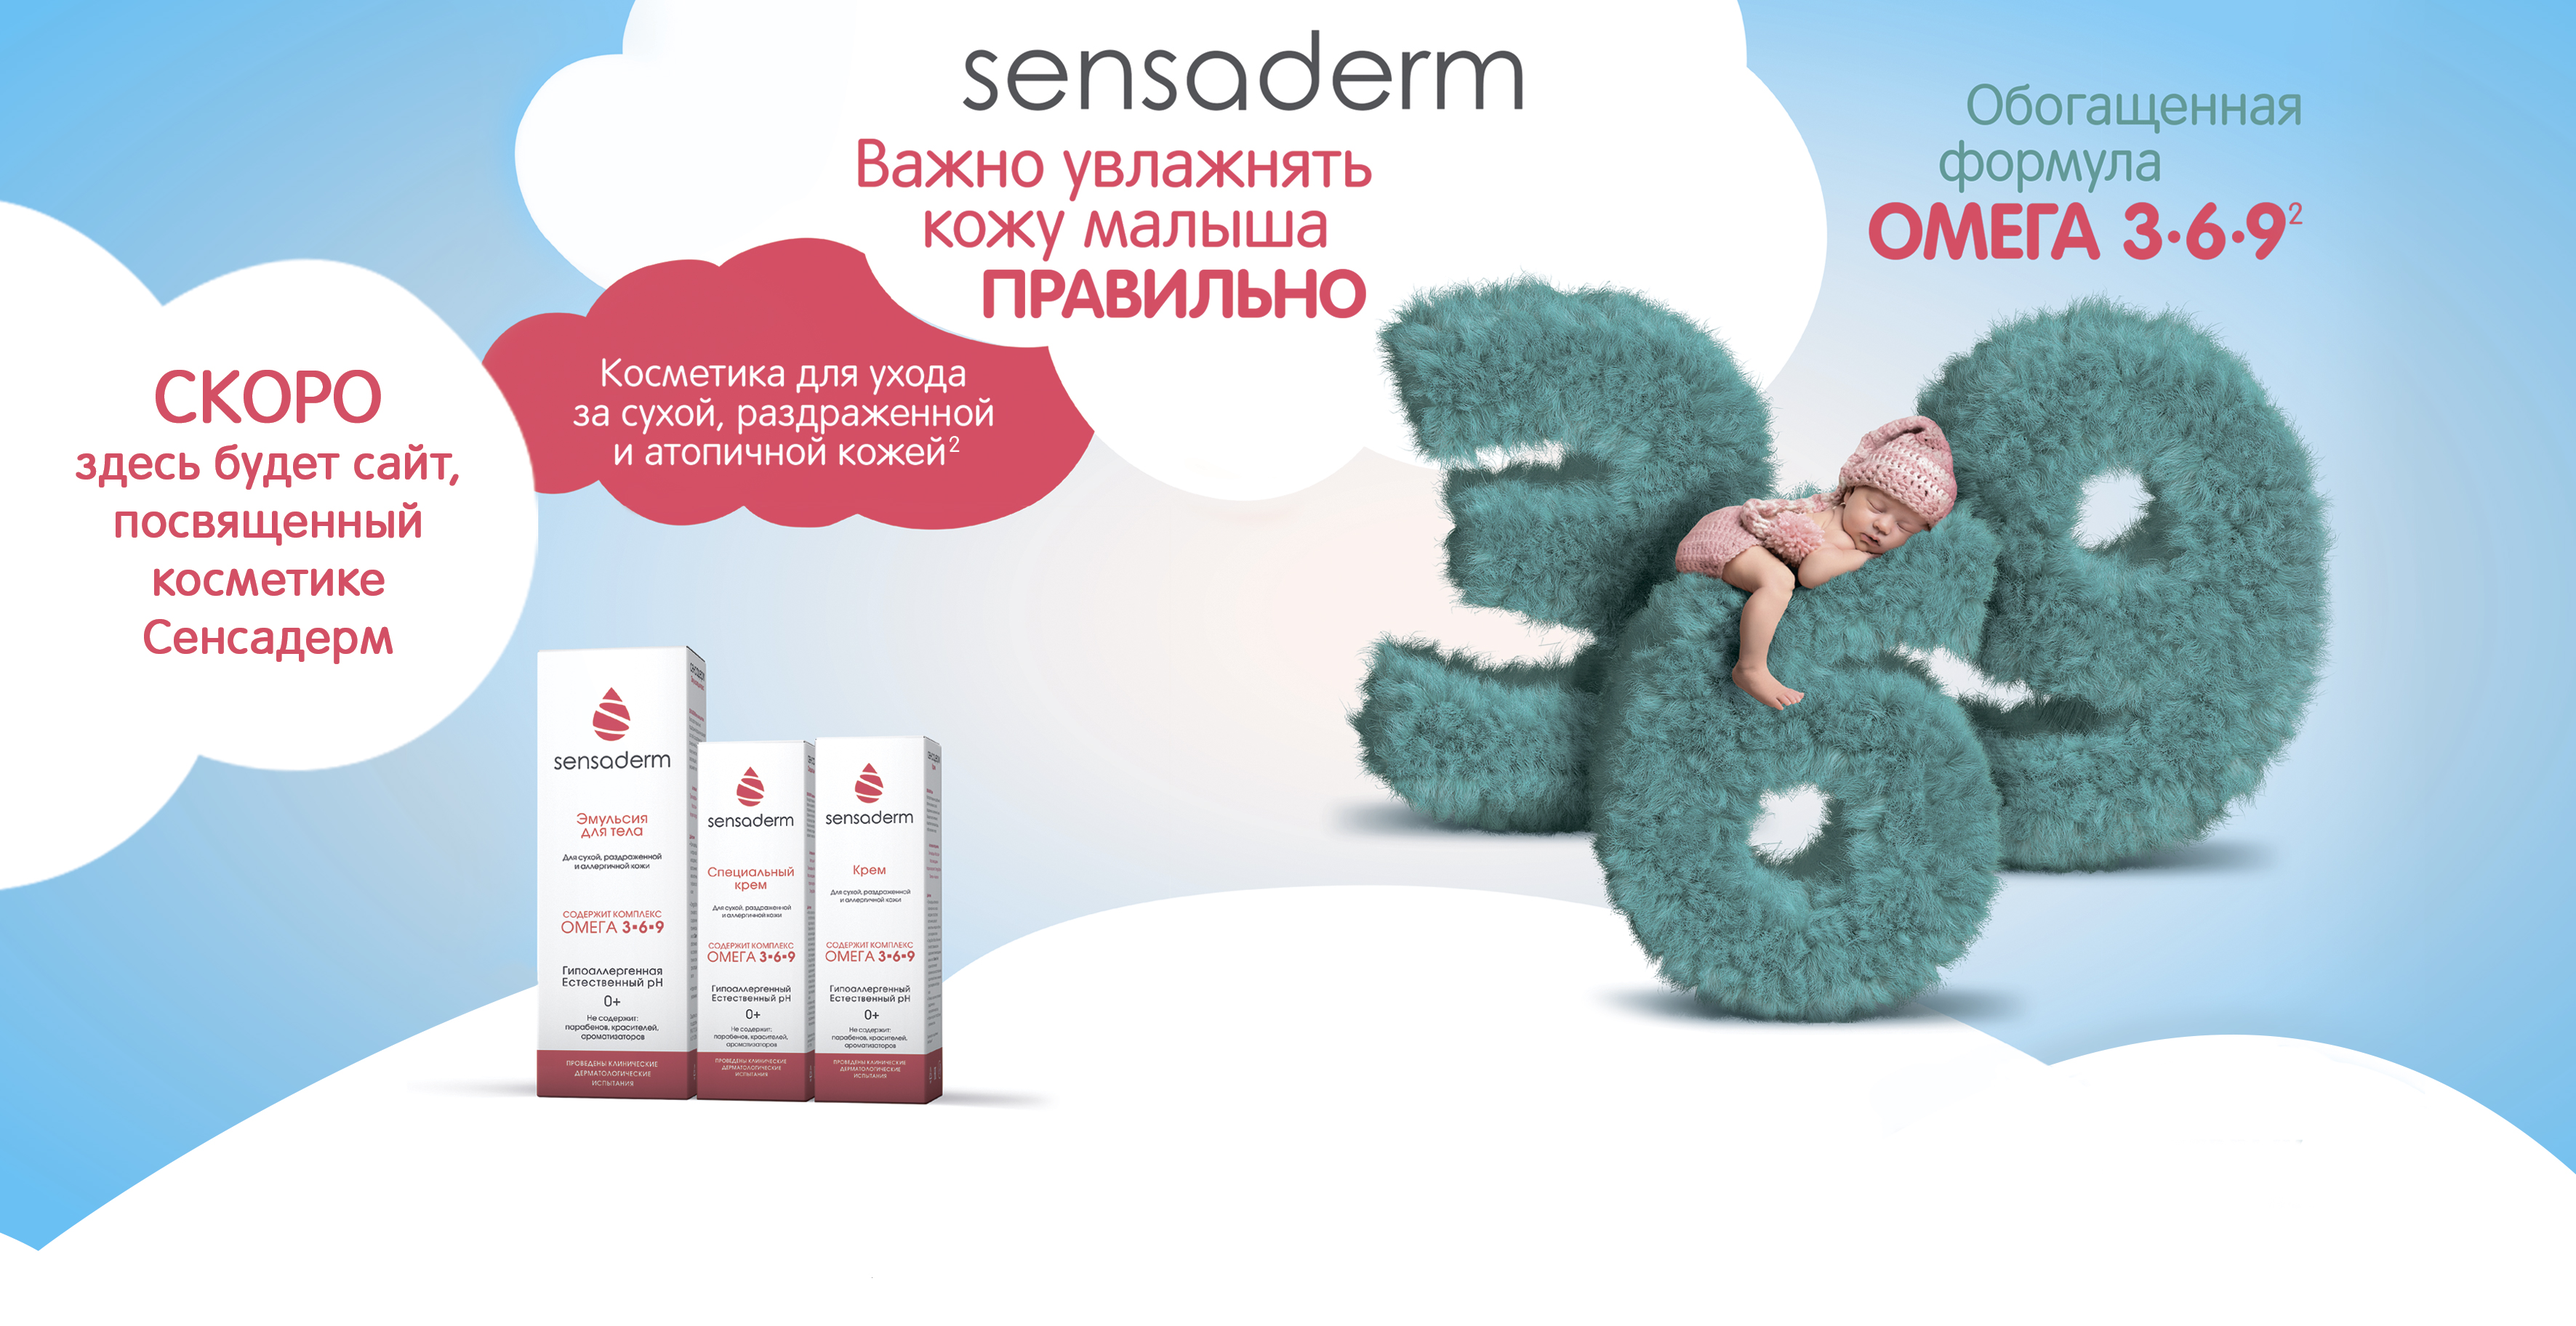
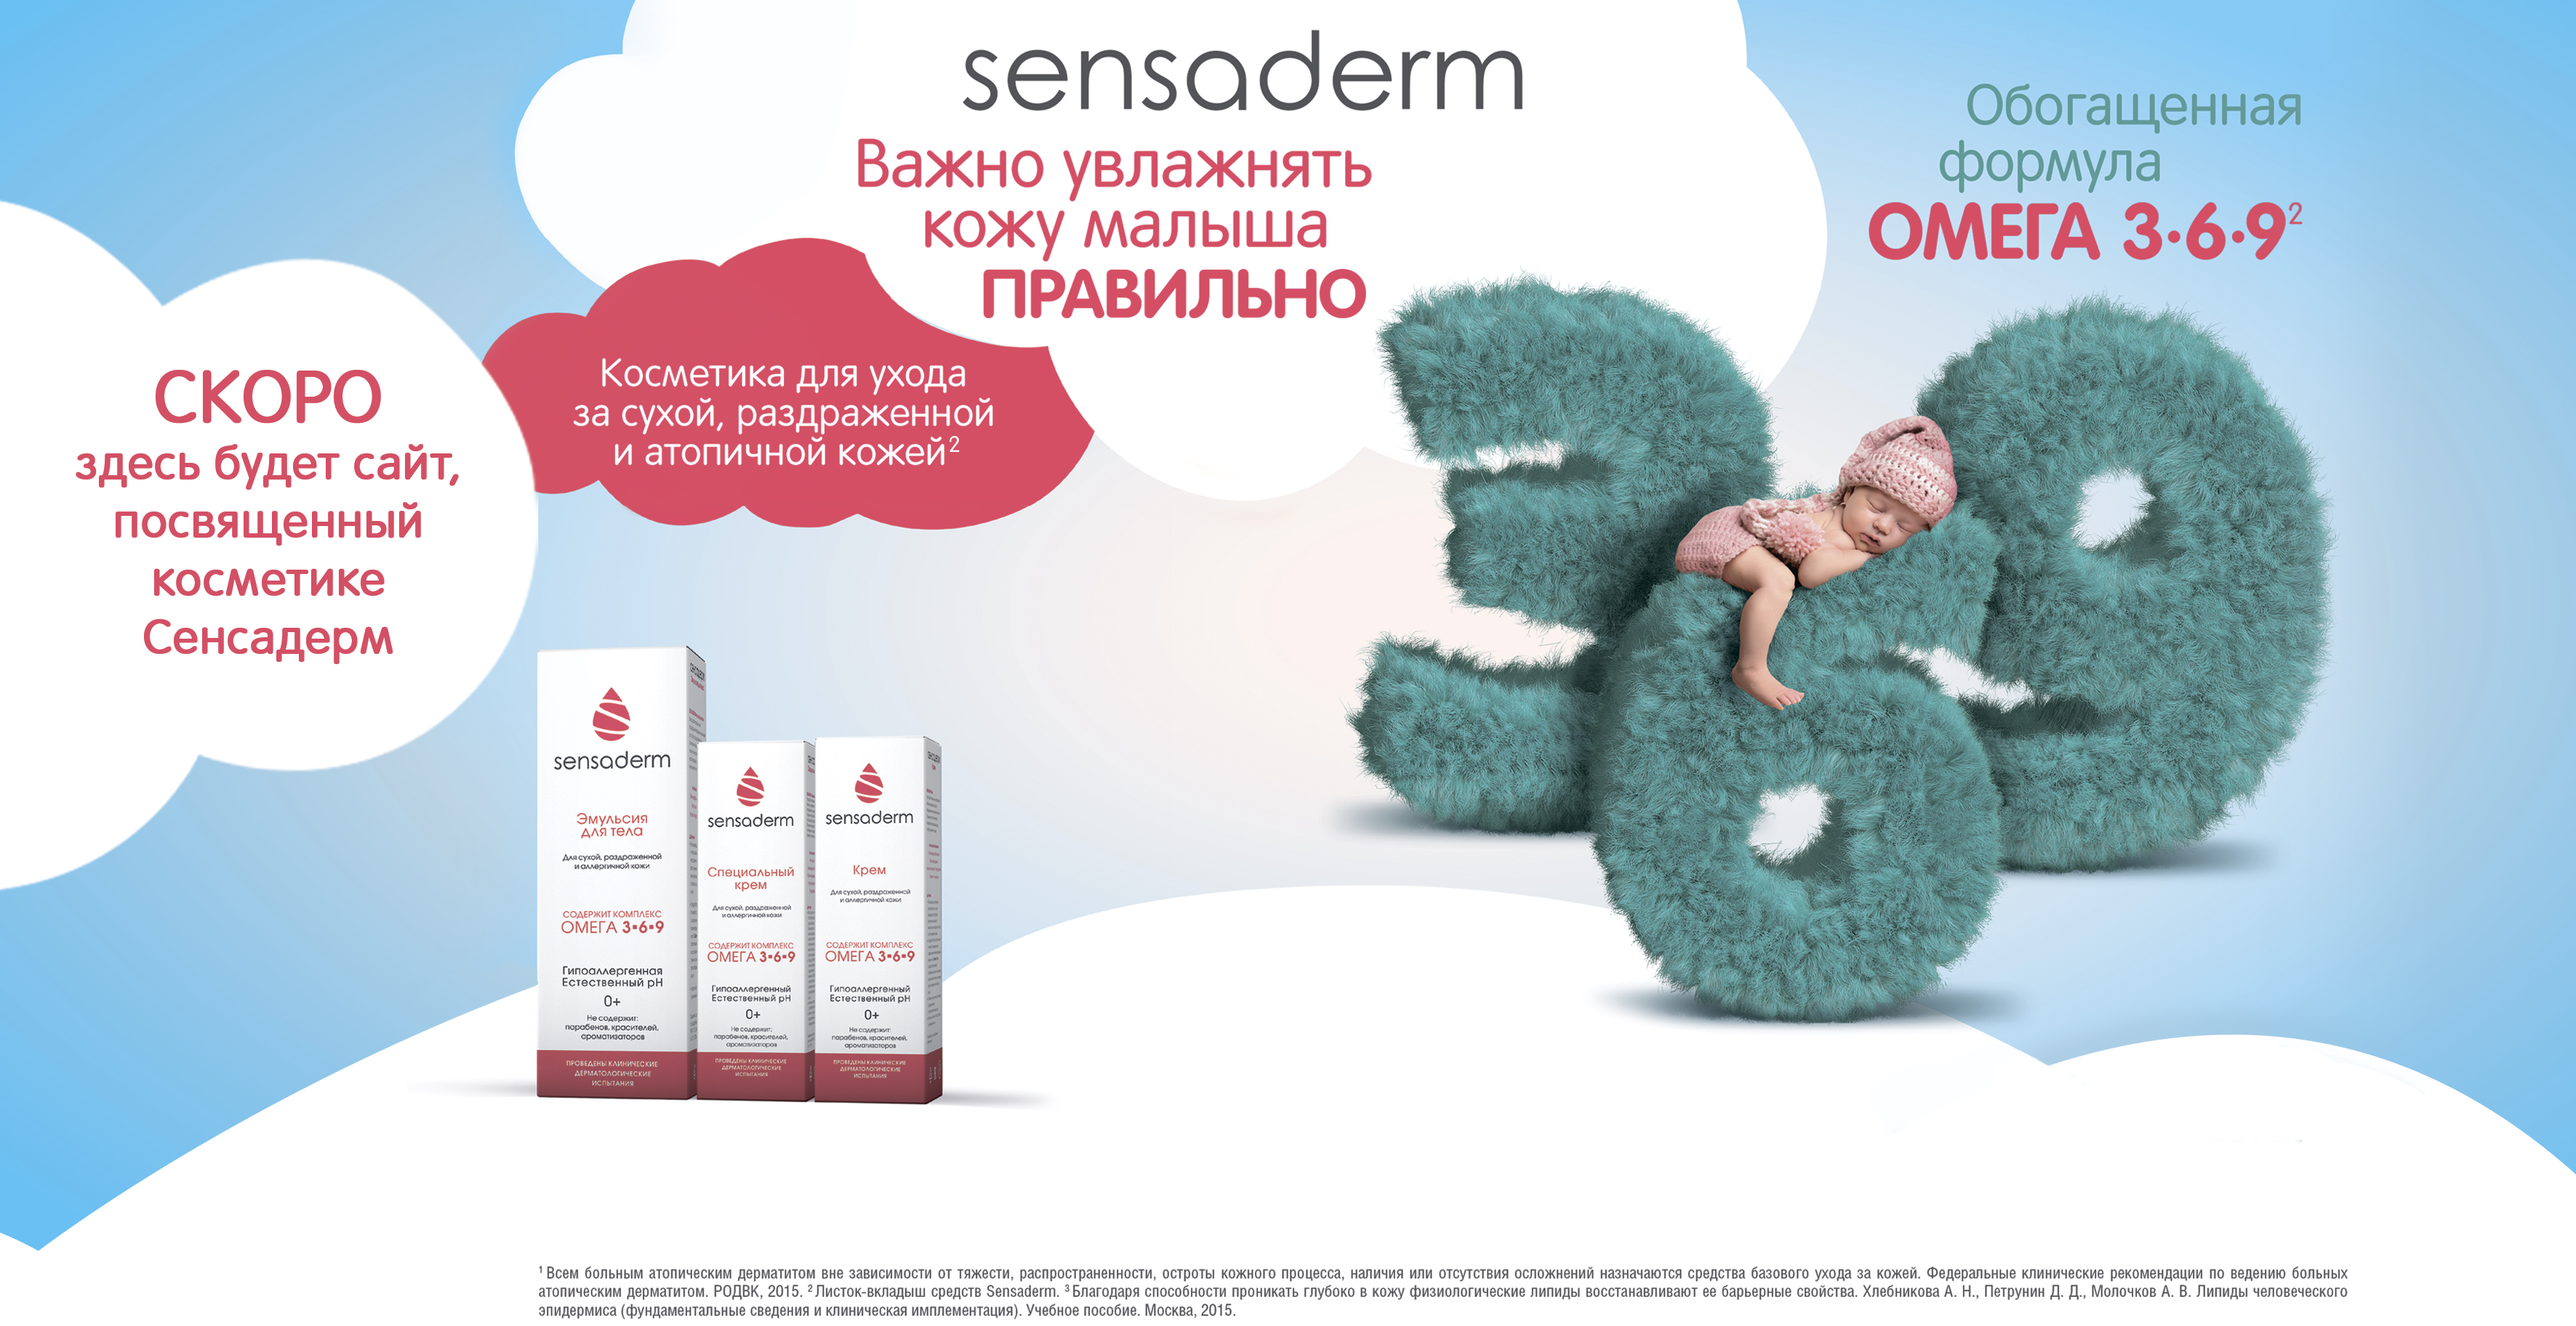
add html, style

Changed region(s): [[0.2173, 0.937, 0.9004, 0.9995]]

diff --git a/src/assets/css/styles.css b/src/assets/css/styles.css
@@ -67,20 +67,35 @@ p {
 .hidden-mg {
   display: inline-block !important; }
 
+.circle-red {
+  width: 0.3125vw;
+  height: 0.3125vw;
+  border-radius: 50%;
+  background: #d44e64;
+  display: inline-block;
+  vertical-align: middle;
+  margin-right: 0.1041666667vw; }
+
+.underline {
+  border-bottom: 1px solid #d44e64; }
+
 section .container {
-  width: 82.6041666667vw;
-  padding-left: 12.1354166667vw; }
+  width: 100%;
+  padding-left: 20.9375vw; }
 
 section .advantages {
   width: 17.1875vw;
   padding: 0;
-  margin: 0; }
+  margin: 0;
+  display: inline-block;
+  vertical-align: bottom; }
   section .advantages li {
-    font-size: 0.8854166667vw;
+    font-size: 1.09375vw;
     color: #d44e64;
     list-style: none;
     position: relative;
-    padding: 0.625vw 0 0.4166666667vw 1.8229166667vw; }
+    padding: 0.625vw 0 0.3125vw 1.8229166667vw;
+    letter-spacing: -0.0104166667vw; }
     section .advantages li:before {
       content: "";
       width: 1.3020833333vw;
@@ -90,28 +105,90 @@ section .advantages {
       left: 0;
       top: 0;
       margin-right: 0.5208333333vw;
-      background: url(../images/ico-check.svg) no-repeat; }
+      background: url(../images/ico-check.svg) no-repeat;
+      background-size: 100% 100%; }
+
+section .advantages2 {
+  padding: 0;
+  margin: 0.3125vw 0 0.2604166667vw;
+  display: inline-block; }
+  section .advantages2:last-child {
+    margin-left: 1.0416666667vw; }
+  section .advantages2 li {
+    font-size: 1.0416666667vw;
+    color: #48443e;
+    list-style: none;
+    position: relative;
+    padding: 0vw 0 0.15625vw 0.7291666667vw;
+    letter-spacing: 0.015625vw; }
+    section .advantages2 li:before {
+      content: "";
+      width: 0.4166666667vw;
+      height: 0.4166666667vw;
+      display: inline-block;
+      position: absolute;
+      left: 0;
+      top: 0.4166666667vw;
+      background: #d44e64;
+      border-radius: 50%; }
+
+section .box-text {
+  display: inline-block;
+  vertical-align: top;
+  width: 34.1145833333vw;
+  padding-left: 3.3333333333vw; }
+  section .box-text p {
+    font-size: 1.0416666667vw;
+    color: #48443e;
+    margin: 0.4166666667vw 0 0.5208333333vw;
+    line-height: 1;
+    letter-spacing: 0.0677083333vw; }
+    section .box-text p.p2 {
+      letter-spacing: 0px;
+      font-size: 1.09375vw; }
+
+section .btn-right {
+  border: 0.2083333333vw solid #4f9d98;
+  height: 6.7708333333vw;
+  font-size: 1.9791666667vw;
+  color: #4f9d98;
+  width: 18.125vw;
+  font-weight: 900;
+  position: absolute;
+  right: -0.4166666667vw;
+  bottom: 0.8854166667vw;
+  border-top-left-radius: 1.5625vw;
+  border-bottom-left-radius: 1.5625vw;
+  padding: 1.09375vw 1.5625vw 1.0416666667vw;
+  box-sizing: border-box; }
 
 section#content {
-  height: 48.6458333333vw;
-  background: url(../images/bg.jpg) no-repeat;
+  height: 51.4583333333vw;
+  background: url(../images/bg2.jpg) no-repeat;
   background-size: 100% 100%;
-  position: relative; }
+  position: relative;
+  padding-bottom: 2.8645833333vw;
+  box-sizing: border-box; }
   section#content .container {
     position: absolute;
-    bottom: 0;
-    left: 50%;
-    -webkit-transform: translate(-50%);
-    -moz-transform: translate(-50%);
-    -ms-transform: translate(-50%);
-    -o-transform: translate(-50%);
-    transform: translate(-50%); }
+    bottom: 2.8645833333vw;
+    left: 0;
+    box-sizing: border-box; }
+    section#content .container .text-red {
+      color: #d44e64;
+      margin: 0;
+      letter-spacing: 0.0208333333vw;
+      font-size: 1.0416666667vw; }
+      section#content .container .text-red .underline {
+        padding-bottom: 0.15625vw; }
 
 footer p {
   text-align: center;
   font-size: 1.0416666667vw;
   color: #55565a;
   line-height: 1;
-  margin: 1.0416666667vw 0; }
+  margin: 1.0416666667vw 0;
+  font-weight: 300;
+  letter-spacing: 0.015625vw; }
 
 /* mobile style*/

diff --git a/src/assets/sass/content.scss b/src/assets/sass/content.scss
@@ -1,18 +1,21 @@
 section {
     .container {
-    	width: vw(1586);
-    	padding-left: vw(233);
+    	width: 100%;
+    	padding-left: vw(402);
     }
     .advantages {
     	width: vw(330);
     	padding: 0;
     	margin: 0;
+    	display: inline-block;
+    	vertical-align: bottom;
     	li {
-    		font-size: vw(17);
+    		font-size: vw(21);
 			color : #d44e64;
 			list-style: none;
 			position: relative;
-			padding: vw(12) 0 vw(8) vw(35);
+			padding: vw(12) 0 vw(6) vw(35);
+		    letter-spacing: vw(-0.2);
 			&:before {
 				content: "";
 				width: vw(25);
@@ -23,23 +26,90 @@ section {
 				top: 0;
 				margin-right: vw(10);
 				background: url(../images/ico-check.svg) no-repeat;
+				background-size: 100% 100%;
 			}
     	}
     }
+    .advantages2 {
+    	padding: 0;
+    	margin: vw(6) 0 vw(5);
+    	display: inline-block;
+    	&:last-child {
+    		margin-left: vw(20);
+    	}
+    	li {
+    		font-size: vw(20);
+			color : #48443e;
+			list-style: none;
+			position: relative;
+			padding: vw(0) 0 vw(3) vw(14);
+			letter-spacing: vw(0.3);
+			&:before {
+				content: "";
+				width: vw(8);
+				height: vw(8);
+				display: inline-block;
+				position: absolute;
+				left: 0;
+				top: vw(8);
+				background: #d44e64;
+				border-radius: 50%;
+			}
+    	}
+    }
+    .box-text {
+	    display: inline-block;
+    	vertical-align: top;
+    	width: vw(655);
+    	padding-left: vw(64);
+    	p {
+		    font-size: vw(20);
+			color: #48443e;
+			margin: vw(8) 0 vw(10);
+			line-height: 1;
+			letter-spacing: vw(1.3);
+			&.p2 {
+			    letter-spacing: 0px;
+			    font-size: vw(21);
+			}
+    	}
+    }
+    .btn-right {
+    	border: vw(4) solid #4f9d98;
+    	height: vw(130);
+    	font-size: vw(38);
+		color : #4f9d98;
+		width: vw(348);
+		font-weight: 900;
+		position: absolute;
+		right: vw(-8);
+		bottom: vw(17);
+		border-top-left-radius: vw(30);
+		border-bottom-left-radius: vw(30);
+		padding: vw(21) vw(30) vw(20);
+		box-sizing: border-box;
+    }
 	&#content {
-		height: vw(934);
-		background: url(../images/bg.jpg) no-repeat;
+		height: vw(988);
+		background: url(../images/bg2.jpg) no-repeat;
 		background-size: 100% 100%;
 		position: relative;
+		padding-bottom: vw(55);
+	    box-sizing: border-box;
 		.container {
 		    position: absolute;
-			bottom: 0;
-			left: 50%;
-			-webkit-transform: translate(-50%);
-			   -moz-transform: translate(-50%);
-			    -ms-transform: translate(-50%);
-			     -o-transform: translate(-50%);
-			        transform: translate(-50%);
+			bottom: vw(55);
+			left: 0;
+		    box-sizing: border-box;
+			.text-red {
+				color : #d44e64;
+				margin: 0;
+			    letter-spacing: vw(0.4);
+				font-size: vw(20);
+				.underline {
+					padding-bottom: vw(3);
+				}
+			}
 		}
 	}
 }

diff --git a/src/index.html b/src/index.html
@@ -11,6 +11,20 @@
 					<li>Косметика <b>прошла <br>дерматологические испытания</b></li>
 					<li><b>Гипоаллергенная</b>, естественный рН</li>
 				</ul>
+				<div class="box-text">
+					<p><b>В ОСНОВЕ СРЕДСТВ SENSADERM - <BR>КОМПЛЕКС ОМЕГА 3<span class="circle-red"></span>6<span class="circle-red"></span>9<sup>2</sup></b></p>
+					<p class="p2"><b>Незаменимые ненасыщенные жирные кислоты - <br>естественные липиды для наиболее эффективного<sup>3</sup>увлажнения</b></p>
+					<p class="text-red"><b>SENSADERM ОБЕСПЕЧИВАЕТ БАЗОВЫЙ УХОД ЗА КОЖЕЙ <br><span class="underline">ПРИ ОБОСТРЕНИИ И РЕМИССИИ АТОПИЧЕСКОГО ДЕРМАТИТА</span><sup>1</sup></b></p>
+					<ul class="advantages2">
+						<li>Уменьшает раздражение<sup>2</sup></li>
+						<li>Защищает от воздействия <br>раздражающих веществ и аллергенов<sup>2</sup></li>
+					</ul>
+					<ul class="advantages2">
+						<li>Полноценно увлажняет<sup>2</sup></li>
+						<li>Восстанавливает <br>гидролипидную мантию<sup>2</sup></li>
+					</ul>
+				</div>
+				<div class="btn-right">С ПЕРВЫХ <br>ДНЕЙ ЖИЗНИ</div>
 			</div>
 		</section>
 

diff --git a/src/parts/head.html b/src/parts/head.html
@@ -1,9 +1,3 @@
 <meta charset="UTF-8"/>
-<meta http-equiv="X-UA-Compatible" content="IE=edge">
-<meta name="viewport" content="width=device-width, initial-scale=1">
-<meta property="og:url" content="" />
-<meta property="og:image" content="" />
-<meta property="og:title" content="" />
-<meta property="og:description" content="" />
 <link rel="stylesheet" href="./assets/css/styles.css">
 <title>sensaderm</title>

diff --git a/src/assets/sass/constant.scss b/src/assets/sass/constant.scss
@@ -41,3 +41,15 @@ p {
 .hidden-mg {
     display: inline-block !important;
 }
+.circle-red {
+    width: vw(6);
+    height: vw(6);
+    border-radius: 50%;
+    background: #d44e64;
+    display: inline-block;
+    vertical-align: middle;
+    margin-right: vw(2);
+}
+.underline {
+    border-bottom: 1px solid #d44e64;
+}

diff --git a/src/assets/sass/footer.scss b/src/assets/sass/footer.scss
@@ -4,6 +4,8 @@ footer {
 		font-size: vw(20);
 		color: #55565a;
 		line-height: 1;
-		margin: vw(20) 0;		
+		margin: vw(20) 0;	
+		font-weight: 300;
+	    letter-spacing: vw(0.3);	
 	}
 }

diff --git a/src/assets/sass/main.scss b/src/assets/sass/main.scss
@@ -36,4 +36,3 @@ $browser-context-vh: 10.80;
 @import "modal-style.scss";
 
 /* mobile style*/
-@media (max-width: 1024px) {}
